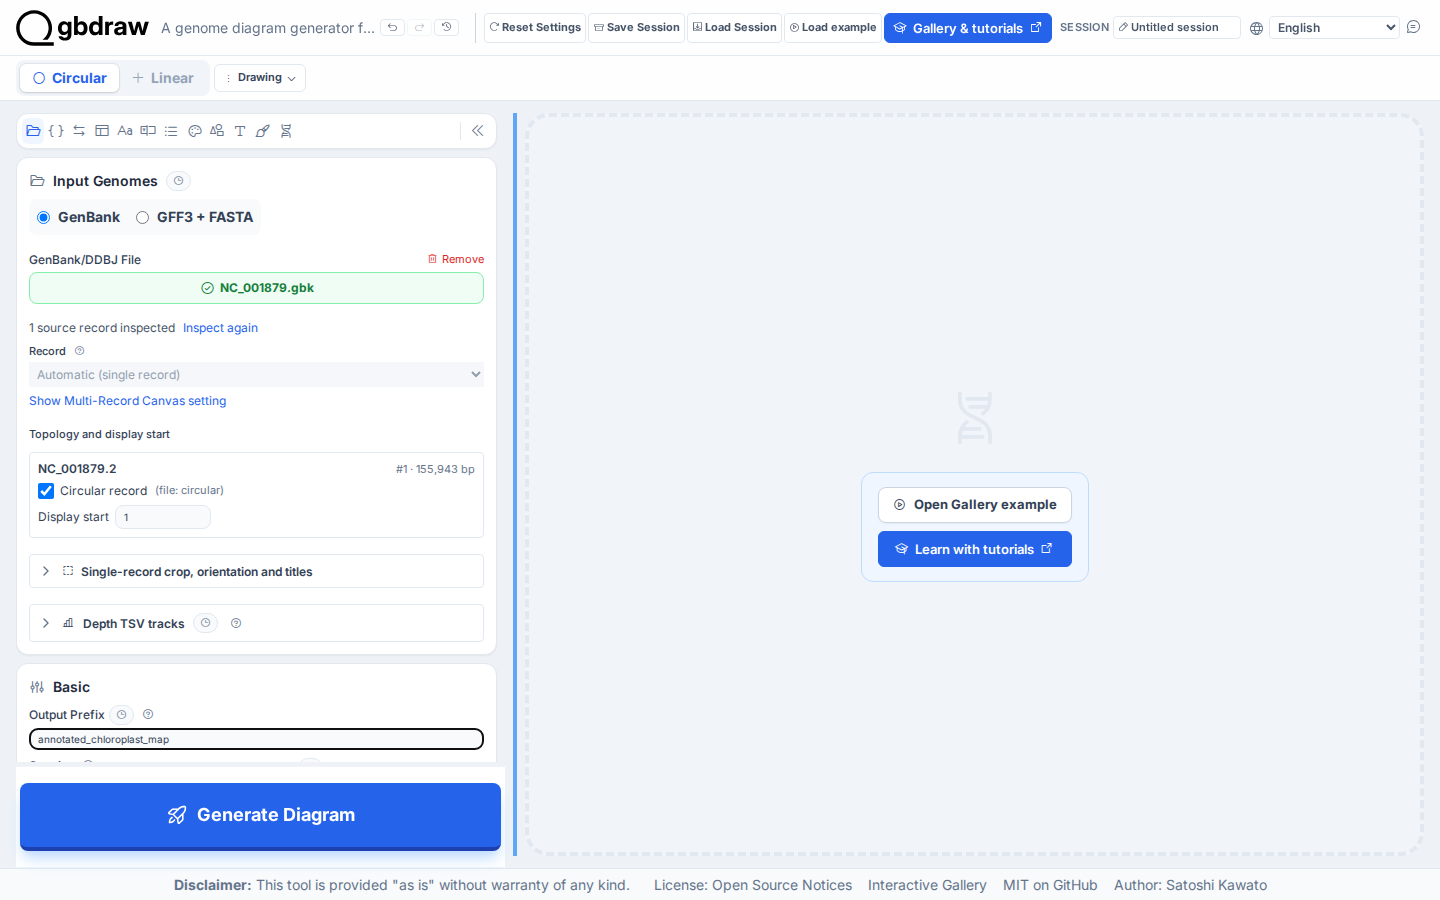
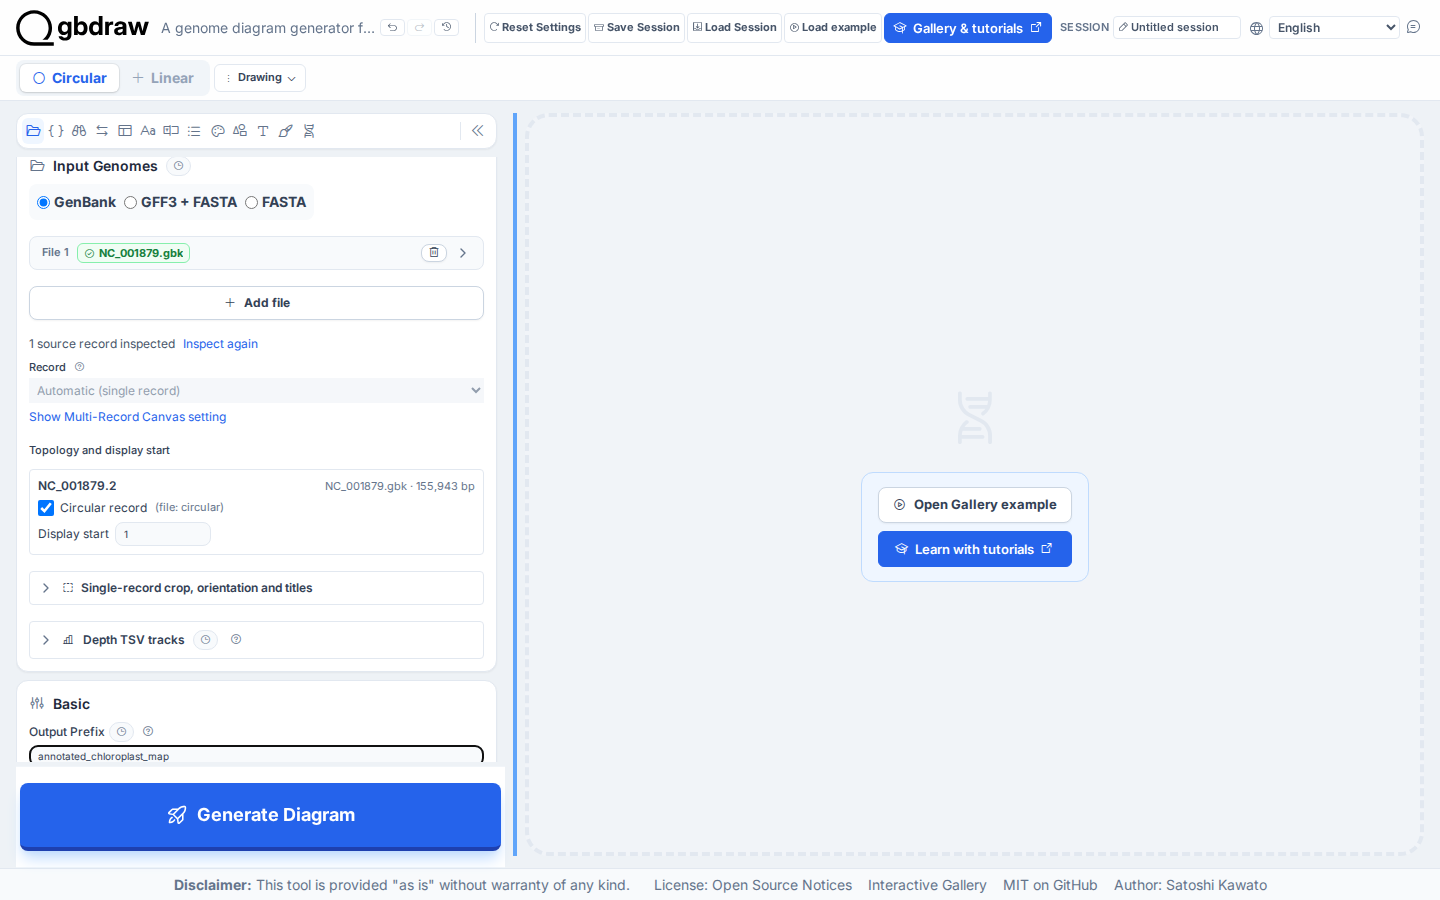
Recapture the Circular input images of T-GUI-01 and T-GUI-05
The two tutorials' first images still showed the single Circular uploader.
Their capture flows waited for the uploader's "GenBank/DDBJ File
selection" group, which a Circular File card no longer shows once the file
is chosen, so the flows failed before the first screenshot. They now wait
for File card 1 to name the file (`expect_circular_file_card` in
docs/capture/flows/web_capture.py), and `docs/capture/run_all.py` wrote
both images again: File 1 with its file chip, Remove and the caret, then
Add file.

Changed region(s): [[0.0, 0.1244, 0.3438, 0.8711], [0.2188, 0.4978, 0.3438, 0.56], [0.2812, 0.28, 0.3438, 0.3111]]

diff --git a/docs/capture/flows/tutorials/gui_first_circular.py b/docs/capture/flows/tutorials/gui_first_circular.py
@@ -38,6 +38,7 @@ from flows.web_capture import (
     assert_output_paths,
     capture_screenshot,
     show_drawing,
+    expect_circular_file_card,
     expect_circular_source_status,
     generate_and_inspect,
     open_ancestor_details,
@@ -93,10 +94,7 @@ def capture_first_circular(
         page.get_by_label("GenBank/DDBJ File", exact=True).set_input_files(
             FIRST_CIRCULAR_FIXTURE_PATH
         )
-        selected_file = page.get_by_role(
-            "group", name="GenBank/DDBJ File selection", exact=True
-        )
-        expect(selected_file).to_contain_text("HmmtDNA.gbk")
+        expect_circular_file_card(page, 1, "HmmtDNA.gbk")
         expect_circular_source_status(page, "1 source record inspected")
         screenshot_bytes["01-input-ready.png"] = capture_screenshot(
             page, output_paths["01-input-ready.png"]

diff --git a/docs/capture/flows/tutorials/gui_annotated_chloroplast.py b/docs/capture/flows/tutorials/gui_annotated_chloroplast.py
@@ -29,6 +29,7 @@ from flows.web_capture import (
     assert_output_paths,
     capture_screenshot,
     show_drawing,
+    expect_circular_file_card,
     generate_and_inspect,
     open_ancestor_details,
     open_browser_capture,
@@ -480,11 +481,7 @@ def capture_gui_annotated_chloroplast(
         page.get_by_label("GenBank/DDBJ File", exact=True).set_input_files(
             GUI_ANNOTATION_GENBANK_PATH
         )
-        expect(
-            page.get_by_role(
-                "group", name="GenBank/DDBJ File selection", exact=True
-            )
-        ).to_contain_text("NC_001879.gbk")
+        expect_circular_file_card(page, 1, "NC_001879.gbk")
         page.get_by_label("Output Prefix", exact=True).fill(
             "annotated_chloroplast_map"
         )

diff --git a/docs/capture/flows/web_capture.py b/docs/capture/flows/web_capture.py
@@ -255,6 +255,15 @@ def run_track_slot_row_action(row: Locator, label: str, *, only_if_enabled: bool
     return True
 
 
+def expect_circular_file_card(page: Page, number: int, name: str) -> None:
+    """Wait until Circular File card `number` (1-based) names the chosen file."""
+
+    card = page.get_by_role("region", name=f"Circular input file {number}", exact=True)
+    expect(card.locator(":scope > details > summary")).to_have_attribute(
+        "aria-label", f"File {number}: {name}"
+    )
+
+
 def expect_circular_source_status(page: Page, text: str) -> None:
     """Wait until the Circular Source records status shows the documented text."""
 
